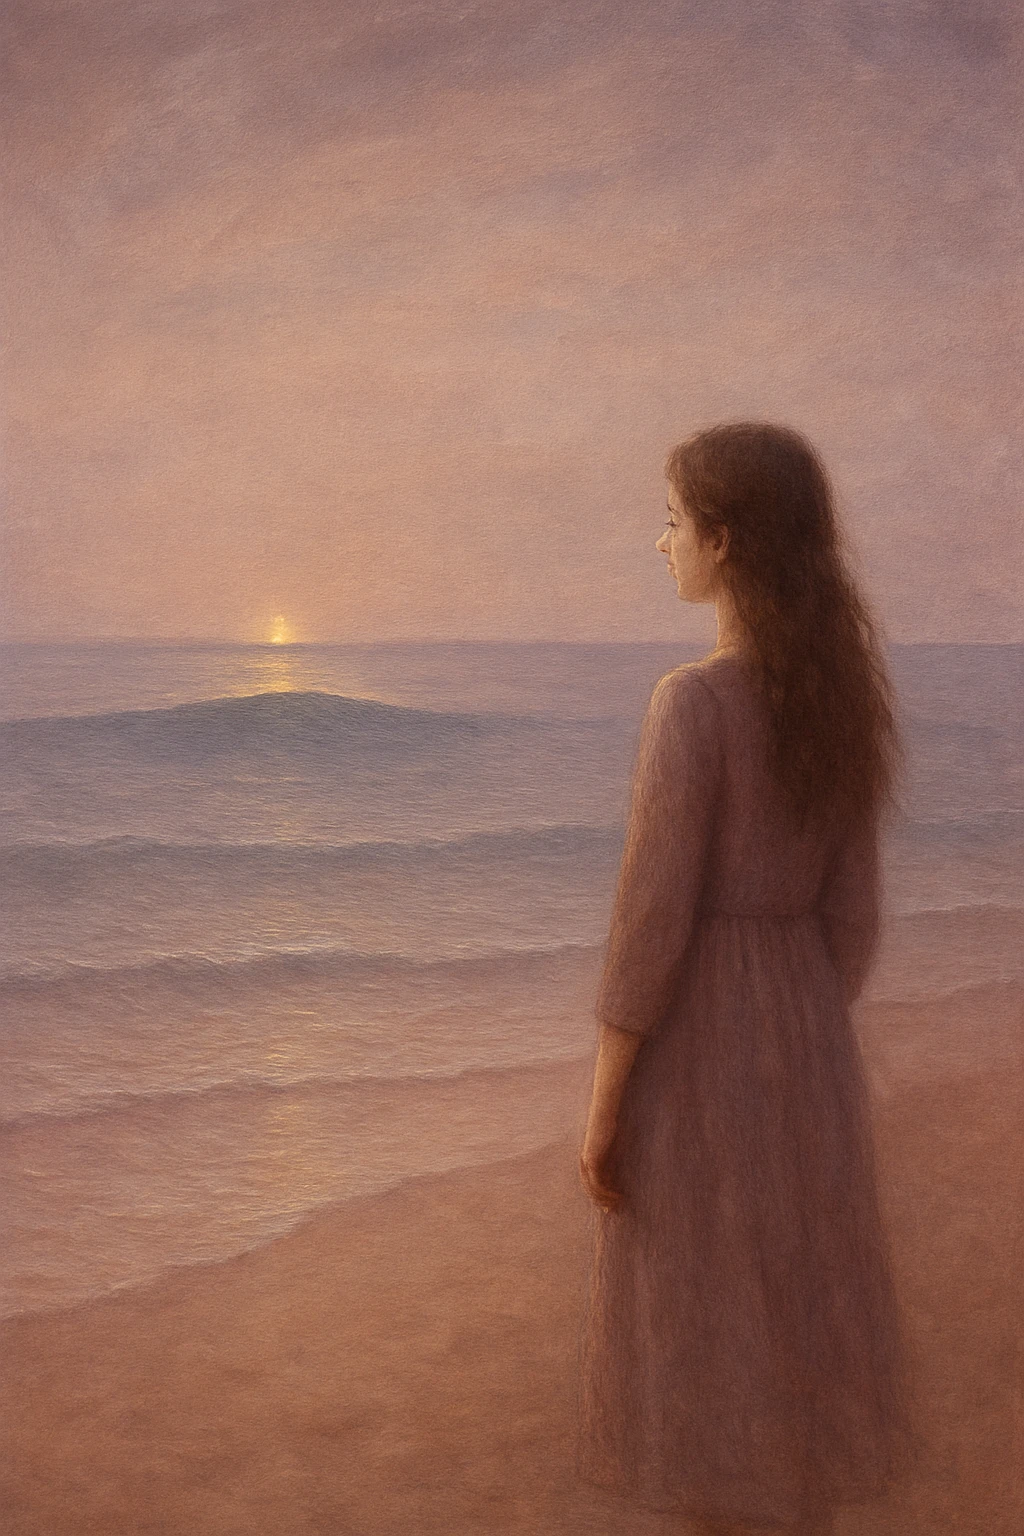
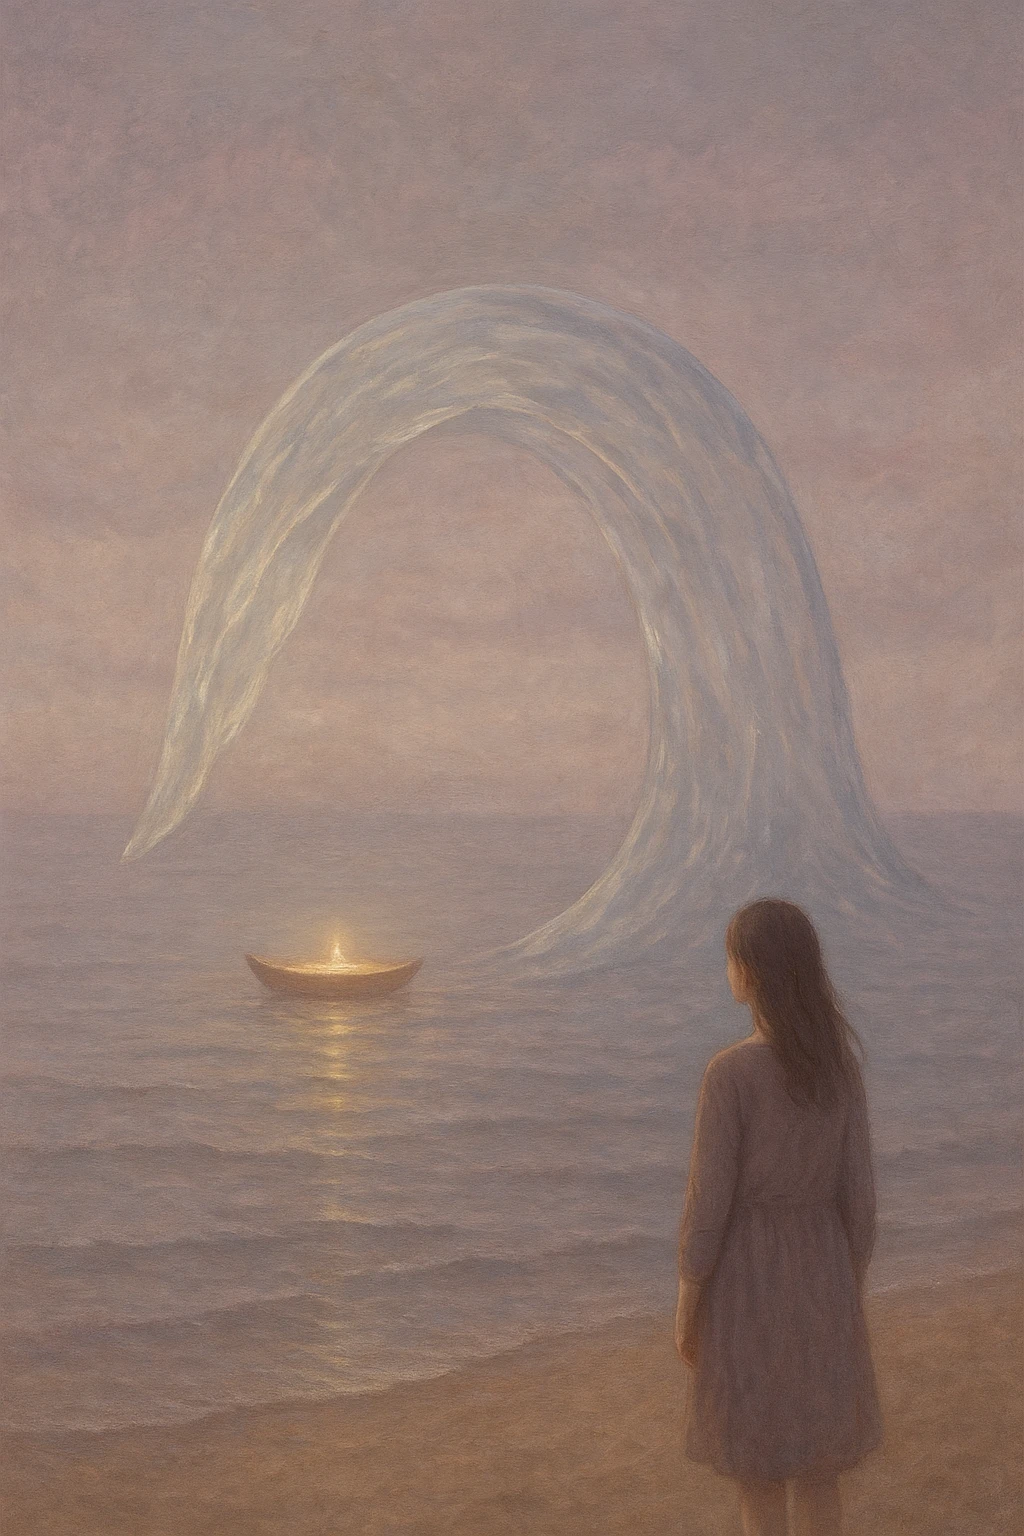
/arhiv/: карта «Волна» пересоздана (видна стеклянная арка, волна далеко и спокойная)

diff --git a/arhiv/cards.js b/arhiv/cards.js
@@ -10,7 +10,7 @@ window.ARHIV_DECK = {
   "tagline": "Образы о том, что происходит внутри, когда тревожно.",
   "imageDir": "cards/img/",
   "imageExt": "webp",
-  "imageVersion": "20261114c",
+  "imageVersion": "20261114d",
   "basePrompt": "Soft hand-painted surrealist fine-art image with fine canvas grain, blending photographic realism with painterly texture, dreamlike and poetic. Pastel palette of dusty rose, mauve, lavender-grey, warm sand and cream, with a delicate golden glow as the single bright accent. Hazy atmospheric light, gentle diffused shadows. The image is built around one clear associative image (a detail of nature, an animal, a symbol, a surreal transformation, or a human gesture) that evokes feelings and associations and leaves room for the viewer's own interpretation. Dali-inspired dreamlike logic but an original composition. Quiet, hopeful mood. No text, no letters, no logos, no watermark. Vertical 2:3.",
   "noPeoplePrompt": "No people in the scene.",
   "negativePrompt": "skulls, bones, skeleton, blood, wounds, severed or disfigured body parts, gore, horror, monsters, spiders, snakes, grotesque or distorted faces, extra fingers, text, letters, logo, watermark, harsh black, heavy darkness, cartoon, 3d render",
@@ -434,8 +434,8 @@ window.ARHIV_DECK = {
       "title": "Волна",
       "motif": "wave",
       "hue": 5,
-      "desc": "Девочка стоит на широком тихом пляже и смотрит на небольшую стеклянную волну далеко у горизонта. На воде крошечная лодка с золотым огоньком.",
-      "scene": "a girl stands on a wide quiet beach looking at a small gentle glass-like wave far away near the horizon, a tiny boat of golden light on the water, vast calm sky, the wave is distant and peaceful",
+      "desc": "На спокойной воде вдали застыла стеклянная волна-арка, сквозь неё проходит мягкий свет. Под аркой плывёт лодка из света, а на берегу, далеко от волны, стоит девочка спиной к зрителю.",
+      "scene": "a clearly visible glass-like wave frozen into a graceful arch of translucent glass over calm water in the middle distance, soft light passing through it, it does not loom over anyone; a small boat of golden light drifts beneath the arch; a girl stands small on the shore far from the wave, seen from behind, wide quiet sky",
       "q": "Что вы чувствуете, глядя на эту волну? Как она связана с вашей тревогой?",
       "step": "Если хотите, минуту-другую понаблюдайте за ощущением, не споря с ним. Заметьте, меняется оно или остаётся.",
       "people": true,

diff --git a/arhiv/index.html b/arhiv/index.html
@@ -9,7 +9,7 @@
   <link rel="icon" type="image/svg+xml" href="../images/favicon.svg">
   <meta name="theme-color" content="#F5F1EB">
   <link rel="stylesheet" href="../css/fonts.css?v=2026102510">
-  <link rel="stylesheet" href="style.css?v=20261114c">
+  <link rel="stylesheet" href="style.css?v=20261114d">
 </head>
 <body>
   <div class="shell">
@@ -82,10 +82,10 @@
 
   <script src="../js/metrika-goals.js?v=2026102701"></script>
   <script src="../js/cookie-consent.js?v=20261024"></script>
-  <script src="config.js?v=20261114c"></script>
-  <script src="cards.js?v=20261114c"></script>
-  <script src="deck-money.js?v=20261114c"></script>
-  <script src="cardart.js?v=20261114c"></script>
-  <script src="app.js?v=20261114c"></script>
+  <script src="config.js?v=20261114d"></script>
+  <script src="cards.js?v=20261114d"></script>
+  <script src="deck-money.js?v=20261114d"></script>
+  <script src="cardart.js?v=20261114d"></script>
+  <script src="app.js?v=20261114d"></script>
 </body>
 </html>

diff --git a/arhiv/deck-money.js b/arhiv/deck-money.js
@@ -10,7 +10,7 @@
   "price": 390,
   "imageDir": "cards/money/",
   "imageExt": "webp",
-  "imageVersion": "20261114c",
+  "imageVersion": "20261114d",
   "questions": [
     "Что я чувствую, когда думаю о деньгах?",
     "Откуда у меня такое отношение к деньгам?",
